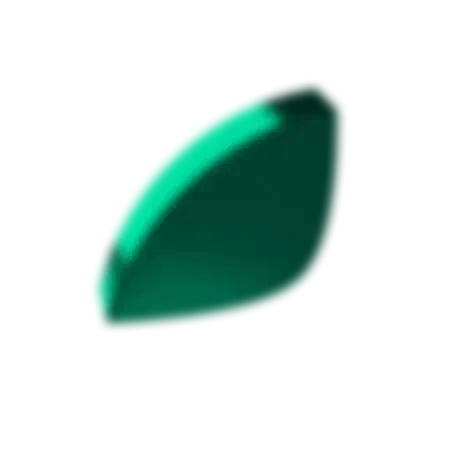
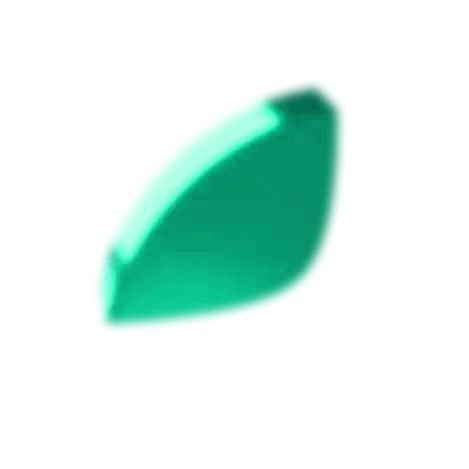
update

Changed region(s): [[0.1791, 0.1791, 0.7463, 0.7164]]

diff --git a/app/igaming-case-studies/CaseStudiesClient.tsx b/app/igaming-case-studies/CaseStudiesClient.tsx
@@ -155,8 +155,10 @@ export default function CaseStudiesClient() {
           bottom: -36%;
           left: 72%;
           transform: translateX(-50%);
-          filter: drop-shadow(0 0 35px rgba(0, 235, 170, 0.2)) brightness(0.78) contrast(1.05);
-          opacity: 0.88;
+          filter: brightness(0.8) contrast(1.08) drop-shadow(0 0 35px rgba(0, 235, 170, 0.25));
+          opacity: 0.92;
+          -webkit-mask-image: linear-gradient(to bottom, rgba(0, 0, 0, 1) 0%, rgba(0, 0, 0, 0.5) 70%, rgba(0, 0, 0, 0.15) 100%);
+          mask-image: linear-gradient(to bottom, rgba(0, 0, 0, 1) 0%, rgba(0, 0, 0, 0.5) 70%, rgba(0, 0, 0, 0.15) 100%);
         }
 
         .portfolio-hero-el-left {
@@ -307,29 +309,155 @@ export default function CaseStudiesClient() {
           background-clip: text;
         }
 
-        @media (max-width: 1024px) {
-          .portfolio-hero-el-left, .portfolio-hero-el-right {
-            display: none;
+        @media (min-width: 601px) and (max-width: 1024px) {
+          .portfolio-hero {
+            padding: 9rem 0 4rem;
+          }
+          .portfolio-hero-container {
+            padding: 0 2.5rem;
           }
           .portfolio-hero-el-main {
-            width: 100vw;
-            bottom: -45%;
-            left: 50%;
+            width: 720px;
+            max-width: 65vw;
+            bottom: -30%;
+            left: 68%;
+            top: auto;
+            transform: translateX(-50%);
+            display: block;
+            opacity: 0.95;
+            filter: brightness(0.85) contrast(1.05) drop-shadow(0 0 35px rgba(0, 235, 170, 0.3));
+            mask-image: none;
+            -webkit-mask-image: none;
+          }
+          .portfolio-hero-el-left {
+            width: 420px;
+            max-width: 40vw;
+            left: 2%;
+            top: -10%;
+            transform: translateX(-30%);
+            display: block;
+            opacity: 0.9;
+            filter: drop-shadow(0 0 25px rgba(0, 235, 170, 0.25));
+            mask-image: none;
+            -webkit-mask-image: none;
+          }
+          .portfolio-hero-el-right {
+            width: 200px;
+            max-width: 18vw;
+            right: 0%;
+            top: -2%;
+            display: block;
+            left: auto;
+            filter: drop-shadow(0 0 25px rgba(0, 235, 170, 0.35));
+          }
+          .portfolio-hero-stats {
+            display: flex;
+            flex-wrap: nowrap;
+            gap: 1.2rem;
+          }
+          .portfolio-hero-stat {
+            width: auto;
+            min-width: 0;
+            flex: 1 1 0%;
+            min-height: 9.5rem;
+            padding: 1.8rem 1.4rem;
+            border-radius: 1.8rem;
+          }
+          .portfolio-hero-stat:last-child {
+            width: auto;
+            flex: 1 1 0%;
+            min-height: 9.5rem;
+          }
+          .portfolio-hero-stat-value {
+            font-size: 1.35rem;
+          }
+          .portfolio-hero-stat-value span {
+            font-size: 1.75rem;
+          }
+          .portfolio-hero-stat-label {
+            font-size: 0.88rem;
           }
         }
 
-        @media (max-width: 640px) {
+        @media (max-width: 600px) {
           .portfolio-hero {
-            padding: 5rem 0 3.5rem;
+            padding: 14rem 0 4rem;
+          }
+          .portfolio-hero-container {
+            padding: 0 1.6rem !important;
+          }
+          .portfolio-hero-el-main {
+            width: 350px;
+            max-width: 92vw;
+            top: 5%;
+            left: 68%;
+            bottom: auto;
+            transform: translateX(-35%);
+            opacity: 0.92;
+            filter: brightness(0.8) contrast(1.08) drop-shadow(0 0 35px rgba(0, 235, 170, 0.25));
+            -webkit-mask-image: linear-gradient(to bottom, rgba(0, 0, 0, 1) 0%, rgba(0, 0, 0, 0.5) 70%, rgba(0, 0, 0, 0.15) 100%);
+            mask-image: linear-gradient(to bottom, rgba(0, 0, 0, 1) 0%, rgba(0, 0, 0, 0.5) 70%, rgba(0, 0, 0, 0.15) 100%);
+          }
+          .portfolio-hero-el-left {
+            width: 260px;
+            max-width: 65vw;
+            left: -25%;
+            top: 1%;
+            transform: none;
+            opacity: 0.88;
+            filter: brightness(0.75) contrast(1.1) drop-shadow(0 0 25px rgba(0, 235, 170, 0.35));
+            -webkit-mask-image: linear-gradient(to bottom, rgba(0, 0, 0, 1) 0%, rgba(0, 0, 0, 0.45) 65%, rgba(0, 0, 0, 0.1) 100%);
+            mask-image: linear-gradient(to bottom, rgba(0, 0, 0, 1) 0%, rgba(0, 0, 0, 0.45) 65%, rgba(0, 0, 0, 0.1) 100%);
+          }
+          .portfolio-hero-el-right {
+            display: none;
           }
           .portfolio-hero-content {
             margin-bottom: 2.5rem;
           }
+          .portfolio-hero-title {
+            font-size: clamp(2.2rem, 8.2vw, 3rem);
+            line-height: 1.1;
+            margin-bottom: 1.2rem;
+          }
+          .portfolio-hero-text {
+            font-size: 1.12rem;
+            line-height: 1.45;
+            margin-bottom: 2.2rem;
+          }
           .portfolio-hero-btn {
-            width: 100%;
+            width: 240px;
+            max-width: 100%;
+          }
+          .portfolio-hero-stats {
+            gap: 1.2rem;
+            display: flex;
+            flex-wrap: wrap;
           }
           .portfolio-hero-stat {
-            max-width: 100%;
+            width: calc(50% - 0.6rem);
+            min-width: 140px;
+            flex: 1 1 calc(50% - 0.6rem);
+            min-height: 10.5rem;
+            padding: 1.8rem 1.4rem;
+            border-radius: 2rem;
+          }
+          .portfolio-hero-stat:last-child {
+            width: 100%;
+            flex: 1 1 100%;
+            min-height: 8.5rem;
+            padding: 1.8rem 1.6rem;
+          }
+          .portfolio-hero-stat-value {
+            font-size: 1.35rem;
+            line-height: 1.2;
+          }
+          .portfolio-hero-stat-value span {
+            font-size: 1.7rem;
+          }
+          .portfolio-hero-stat-label {
+            font-size: 0.88rem;
+            line-height: 1.35;
           }
         }
       `}</style>
